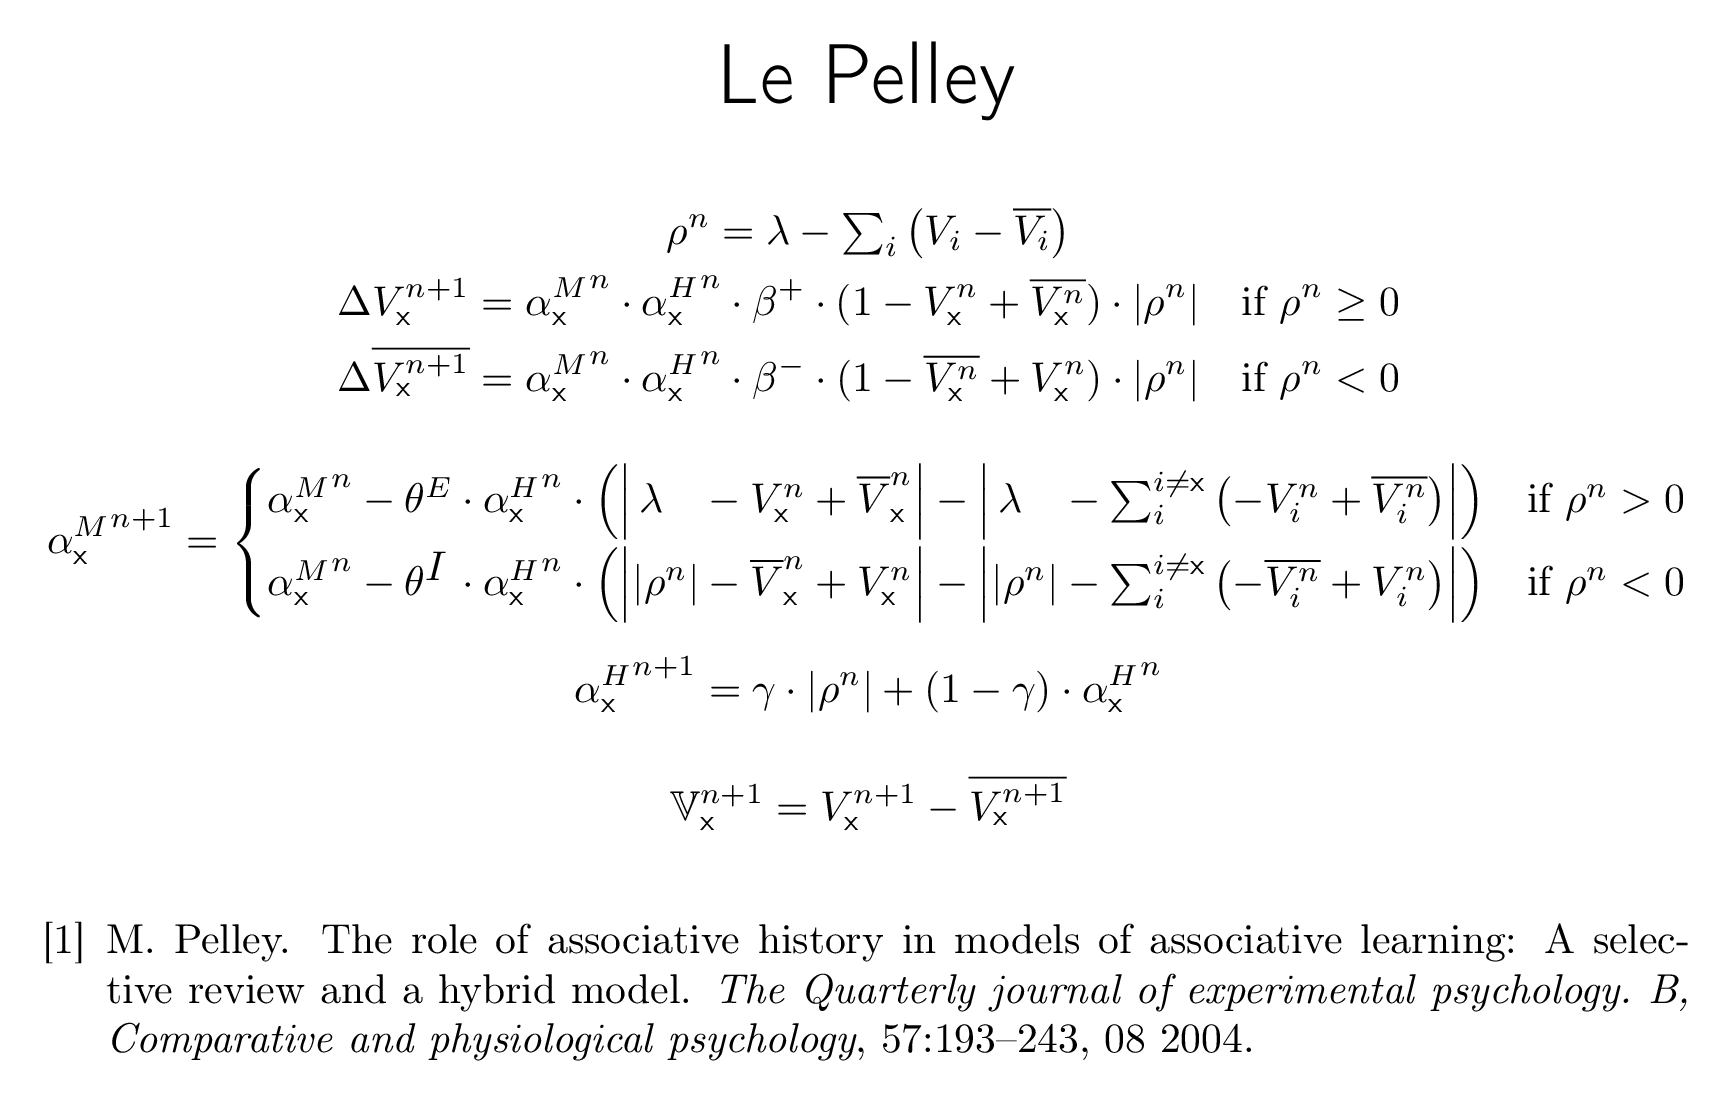
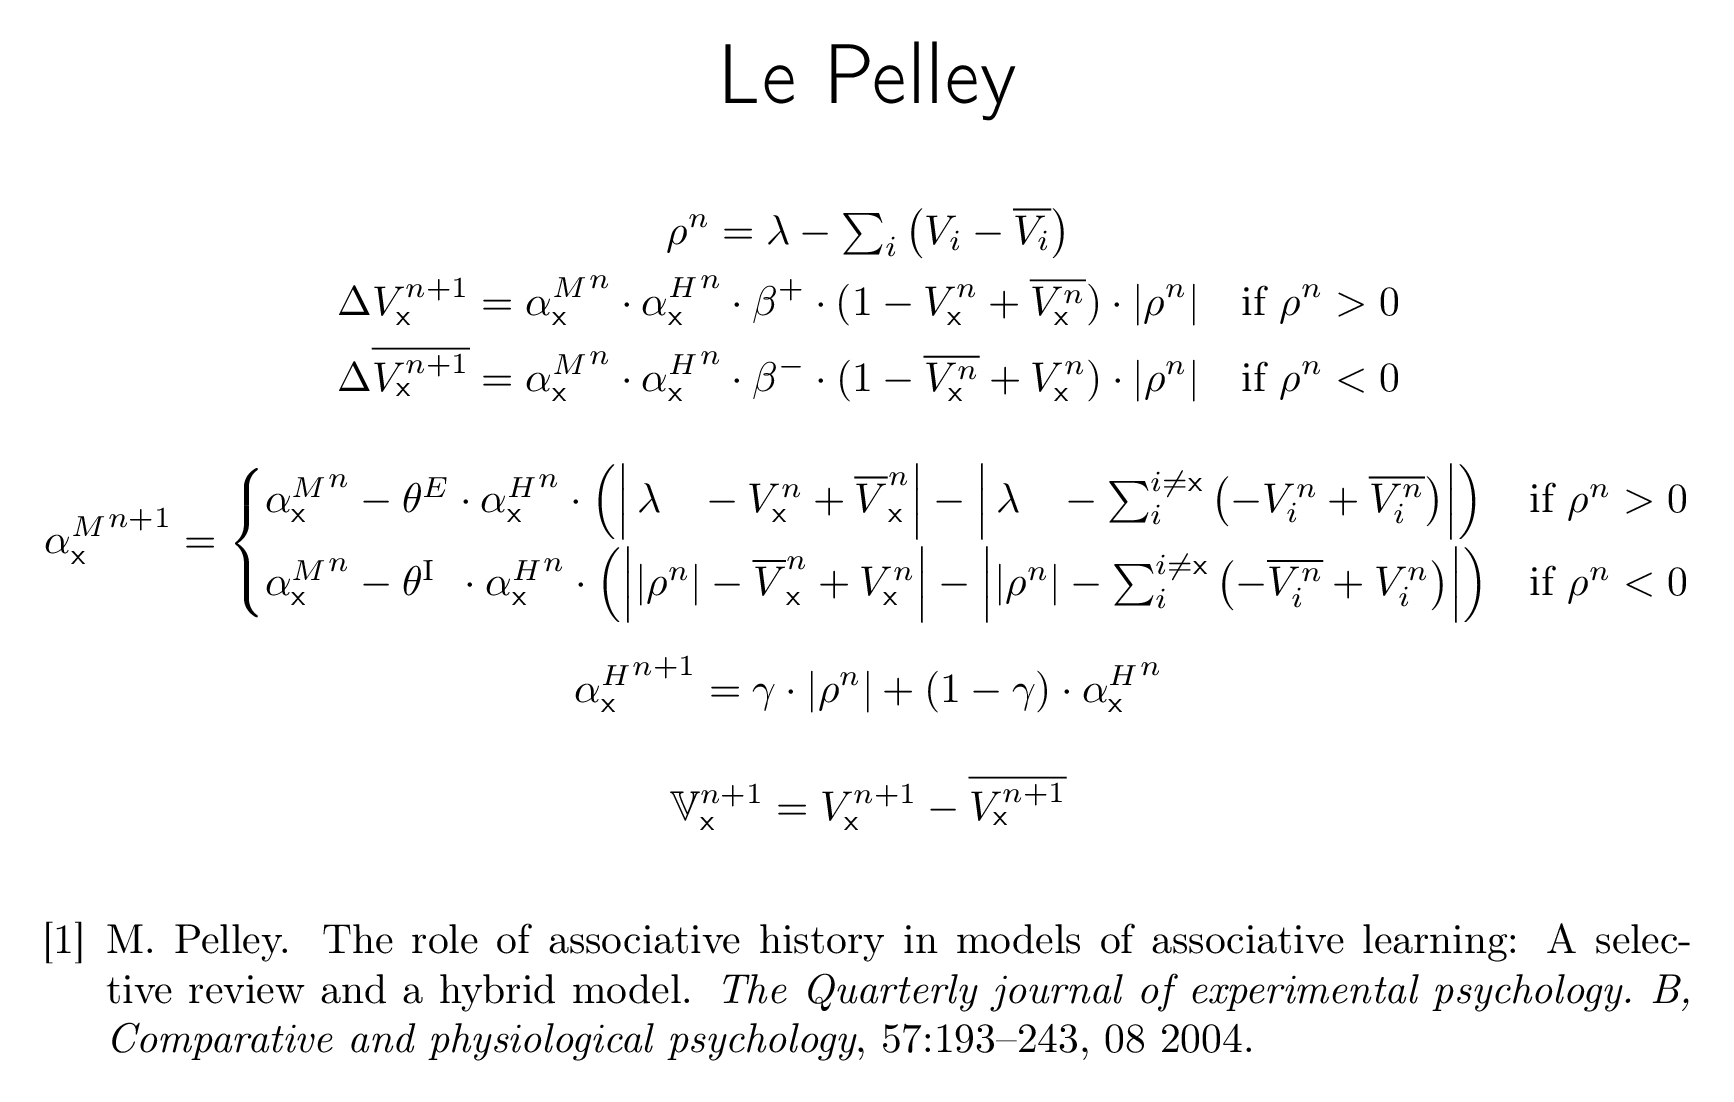
Changing a few formulas.

diff --git a/resources/LePelley.tex b/resources/LePelley.tex
@@ -12,7 +12,7 @@
 \begin{document}
 \newcommand{\eks}{\textsf{x}}
 \newcommand{\longlambda}{\rlap{$\,\lambda$}\phantom{\left| \rho^n \right|}}
-\newcommand{\longI}{\rlap{$I$}\phantom{E}}
+\newcommand{\longI}{\rlap{\textsuperscript{I}}\phantom{E}}
 \newcommand{\VNet}{\mathbb{V}}
 
 \begin{center}
@@ -24,7 +24,7 @@
 	\begin{gathered}
 		\rho^n = \lambda - \textstyle\sum_i \left( V_i - \overline{V_i} \right) \\
 		\begin{aligned}
-			\Delta V_\eks^{n + 1} &= {\alpha^M_\eks}^n \cdot {\alpha^H_\eks}^n \cdot \beta^+ \cdot (1 - V_\eks^n + \overline{V_\eks^n}) \cdot \left| \rho^n \right| & \text{if } \rho^n \geq 0 \\
+			\Delta V_\eks^{n + 1} &= {\alpha^M_\eks}^n \cdot {\alpha^H_\eks}^n \cdot \beta^+ \cdot (1 - V_\eks^n + \overline{V_\eks^n}) \cdot \left| \rho^n \right| & \text{if } \rho^n > 0 \\
 			 \Delta \overline{V_\eks^{n + 1}} &= {\alpha^M_\eks}^n \cdot {\alpha^H_\eks}^n \cdot \beta^- \cdot (1 - \overline{V_\eks^n} + V_\eks^n) \cdot \left| \rho^n \right| & \text{if } \rho^n < 0
 		\end{aligned}
 	\end{gathered} \\[1em]
@@ -32,7 +32,7 @@
 		{\alpha^M_\eks}^{n + 1} =
 			\begin{cases}
 				{\alpha^M_\eks}^n - \theta^E \cdot {\alpha^H_\eks}^n \cdot \left( \left| \longlambda - V_\eks^n + \overline{V}_\eks^n \right| - \left| \longlambda - \textstyle\sum_i^{i \neq \eks} \left( - V_i^n + \overline{V_i^n} \right) \right| \right) & \text{if } \rho^n > 0 \\[1ex]
-				 {\alpha^M_\eks}^n -\theta^{\longI} \cdot {\alpha^H_\eks}^n \cdot \left( \left| \left| \rho^n \right| - \overline{V}_\eks^n + V_\eks^n \right| - \left| \left| \rho^n \right| - \textstyle\sum_i^{i \neq \eks} \left( - \overline{V_i^n} + V_i^n \right) \right| \right) & \text{if } \rho^n < 0
+				 {\alpha^M_\eks}^n -\theta{\longI{}} \cdot {\alpha^H_\eks}^n \cdot \left( \left| \left| \rho^n \right| - \overline{V}_\eks^n + V_\eks^n \right| - \left| \left| \rho^n \right| - \textstyle\sum_i^{i \neq \eks} \left( - \overline{V_i^n} + V_i^n \right) \right| \right) & \text{if } \rho^n < 0
 			\end{cases} \\[1ex]
 				{\alpha^H_\eks}^{n + 1} = \gamma \cdot \left| \rho^n \right| + \left( 1 - \gamma \right) \cdot {\alpha^H_\eks}^{n}
 	\end{gathered} \\[1em]

diff --git a/resources/Extended_Mack.tex b/resources/Extended_Mack.tex
@@ -1,4 +1,4 @@
-\documentclass[border=10pt,varwidth]{standalone}
+\documentclass[border=10pt,varwidth=13cm]{standalone}
 \usepackage{amsmath}
 \usepackage{amssymb}
 \usepackage[T1]{fontenc}
@@ -23,7 +23,7 @@
 \end{center}
 \begin{gather*}
 	\begin{aligned}
-		\Delta V_\eks^{n + 1} &= \alpha_\eks^n \cdot \beta^+ \cdot (1 - V_\eks^n + \overline{V_\eks^n}) \cdot \left| \rho^n \right| & \text{if } \rho^n \geq 0 \\
+		\Delta V_\eks^{n + 1} &= \alpha_\eks^n \cdot \beta^+ \cdot (1 - V_\eks^n + \overline{V_\eks^n}) \cdot \left| \rho^n \right| & \text{if } \rho^n > 0 \\
 		 \Delta \overline{V_\eks^{n + 1}} &= \alpha_\eks^n \cdot \beta^- \cdot (1 - \overline{V_\eks^n} + V_\eks^n) \cdot \left| \rho^n \right| & \text{if } \rho^n < 0\\
          \rho^n &= \lambda - \left( \textstyle\sum_i V_i^n - \textstyle\sum_i \overline{V_i^n} \right) 
 	\end{aligned} \\[1em]
